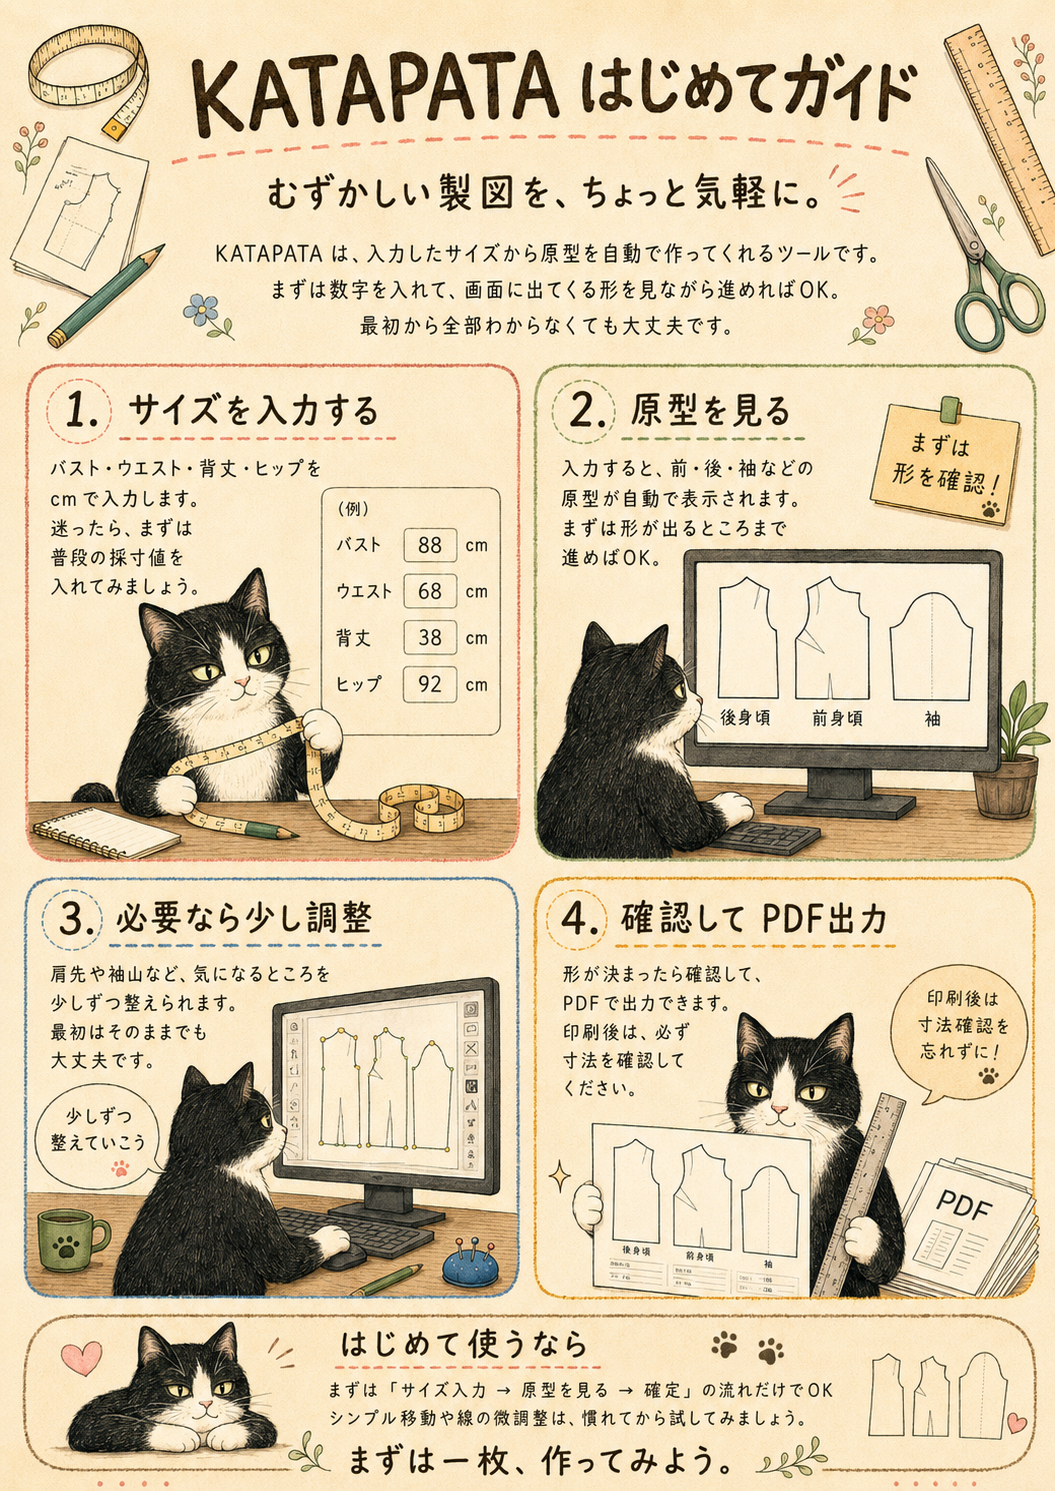
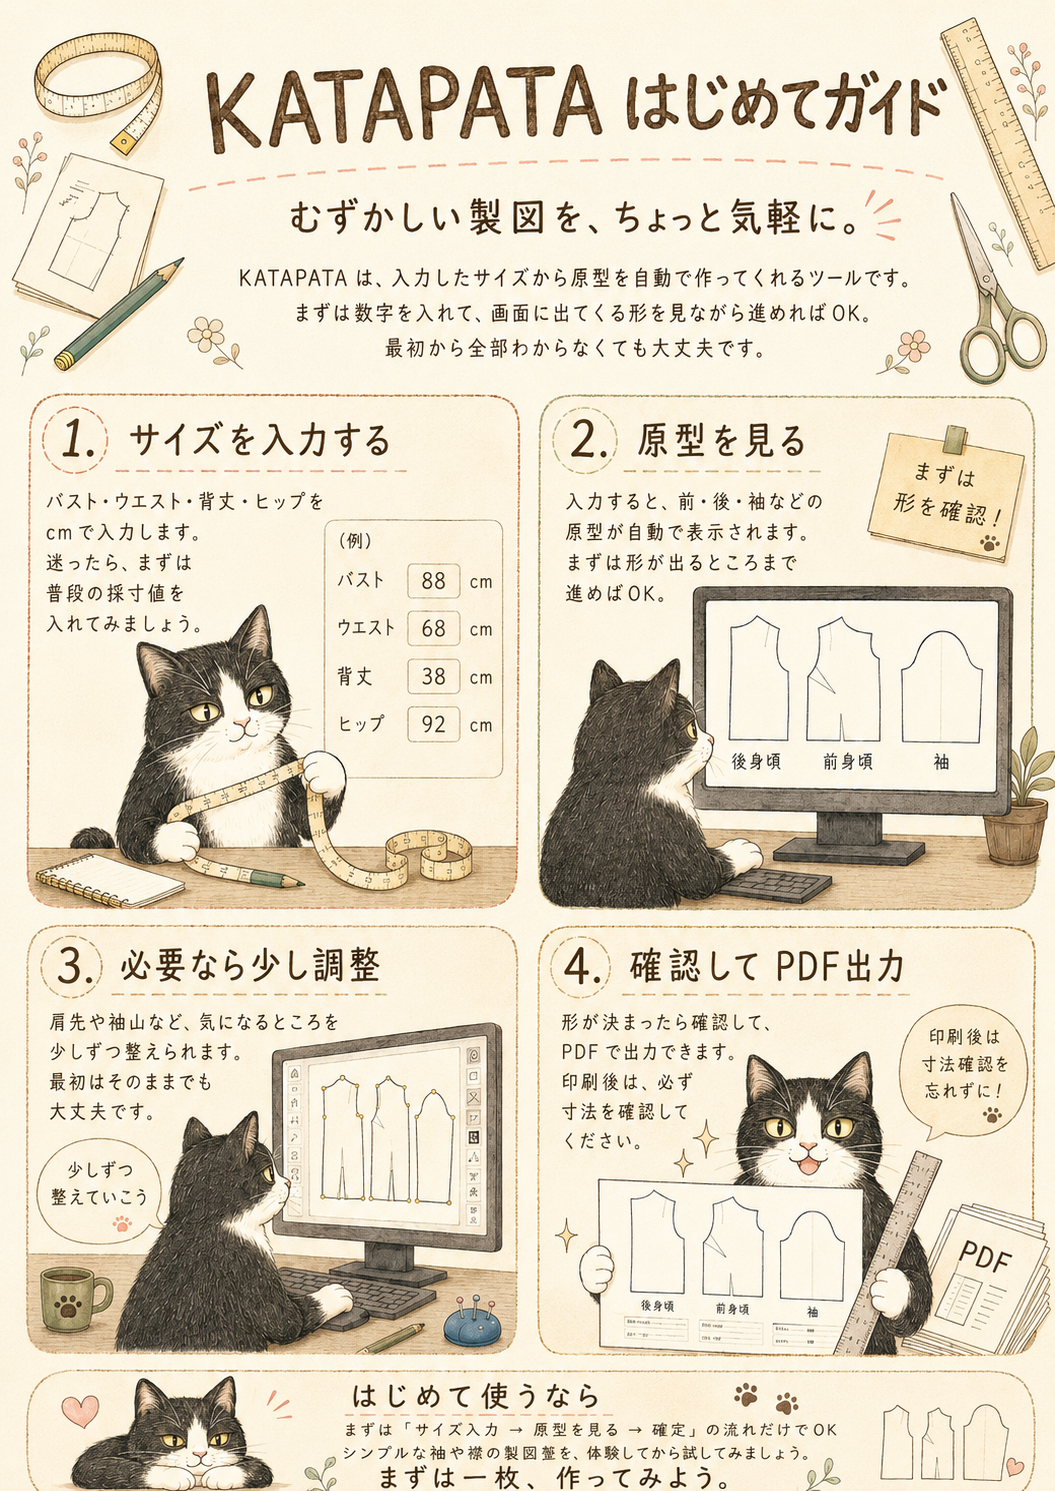
Add files via upload

diff --git a/guide/index.html b/guide/index.html
@@ -7,7 +7,7 @@
   <meta name="description" content="KATAPATAの使い方を、猫のかんたんガイドと手順で紹介します。">
   <link rel="stylesheet" href="../assets/css/site.css">
 </head>
-<body>
+<body class="guide-body">
 <header class="site-header">
   <div class="nav-wrap">
     <a class="brand" href="../index.html" aria-label="KATAPATA home">
@@ -17,51 +17,48 @@
     <button class="nav-toggle" type="button" data-nav-toggle aria-expanded="false">MENU</button>
     <nav class="site-nav" data-site-nav>
       <a href="../about.html">はじめに</a>
-      <a href="../tools/index.html">ツール</a>
-      <a href="../guide/index.html">使い方</a>
-      <a href="../examples/index.html">使用例</a>
-      <a href="../blog/index.html">ブログ</a>
-      <a href="../pricing/index.html">料金</a>
-      <a href="../help/index.html">FAQ</a>
+      <a href="../guide/index.html" class="is-active">使い方</a>
+      <a href="../tools/sloper/index.html">原型作成ツール</a>
+      <a href="../help/index.html">よくある質問</a>
     </nav>
   </div>
 </header>
-<main class="main">
-
-<section class="page-hero container">
-  <p class="eyebrow">First Guide</p>
-  <h1 class="page-title">KATAPATA はじめてガイド</h1>
-  <p class="page-lead">まずは全体の流れをざっくり確認するページです。細かいことは後からで大丈夫。最初は「入力して、見る」だけでもOKです。</p>
-</section>
-
-<section class="section container tight">
-  <figure class="guide-visual-card">
-    <img src="../assets/img/katapata-guide-cat.png" alt="KATAPATAの使い方を説明する猫のかんたんガイド。サイズ入力、原型確認、調整、PDF出力の流れ。">
-    <figcaption>猫のかんたんガイド：KATAPATAの基本の流れ</figcaption>
-  </figure>
-</section>
-
-<section class="section container">
-  <h2 class="section-title">基本の流れ</h2>
-  <div class="steps">
-    <div class="step"><h3>サイズを入力する</h3><p>バスト、ウエスト、背丈など、必要な寸法をcm単位で入力します。</p></div>
-    <div class="step"><h3>原型を見る</h3><p>画面に表示された原型を確認します。前・後ろ・袖などを切り替えて見られます。</p></div>
-    <div class="step"><h3>必要なら調整する</h3><p>肩、BP、袖山など、必要な箇所を調整しながら確認します。</p></div>
-    <div class="step"><h3>PDFで出力する</h3><p>無料では縮小サンプルPDFを確認できます。有料出力では、通常サイズPDFとA4分割PDFをセットで使えます。</p></div>
-  </div>
-</section>
-
-<section class="section container">
-  <div class="guide-callout">
-    <div>
-      <p class="eyebrow">Open Tool</p>
-      <h2>準備ができたら、原型作成ツールへ</h2>
-      <p>作業中にこのガイドを見返したい場合は、別タブで開いておくと安心です。</p>
+<main class="guide-page">
+  <section class="guide-hero-modern guide-container" aria-labelledby="guide-title">
+    <div class="guide-hero-copy">
+      <h1 id="guide-title">はじめての方へ<span class="guide-hero-flower" aria-hidden="true">🌼</span></h1>
+      <p>KATAPATAは、むずかしい製図を、ちょっと気軽に。<br>入力したサイズから、あなたの原型を自動で作ってくれるツールです。<br>まずはガイドを読んで、気軽に始めてみましょう。</p>
     </div>
-    <a class="btn primary" href="../tools/sloper/index.html">原型作成ツールへ</a>
-  </div>
-</section>
+    <div class="guide-hero-art" aria-hidden="true">
+      <span class="flower-a">✿</span>
+      <span class="flower-b">❀</span>
+      <span class="flower-c">✽</span>
+    </div>
+  </section>
 
+  <section class="guide-visual-section" aria-label="KATAPATA はじめてガイド">
+    <figure class="guide-visual-shell">
+      <picture class="guide-picture">
+        <source media="(min-width: 861px)" srcset="../assets/img/katapata-guide-cat-wide.png">
+        <img src="../assets/img/katapata-guide-cat.png" alt="KATAPATA はじめてガイド。サイズ入力、原型確認、調整、PDF出力の流れを猫のイラストで説明しています。">
+      </picture>
+      <figcaption class="sr-only">猫のかんたんガイド：KATAPATAの基本の流れ</figcaption>
+    </figure>
+    <div class="guide-actions guide-container">
+      <a class="btn guide-primary" href="../tools/sloper/index.html">さっそく原型を作ってみる　›</a>
+      <a class="btn guide-secondary" href="#guide-steps">詳しい使い方を見る　›</a>
+    </div>
+  </section>
+
+  <section id="guide-steps" class="section guide-detail-section guide-container">
+    <h2 class="section-title">基本の流れ</h2>
+    <div class="steps">
+      <div class="step"><h3>サイズを入力する</h3><p>バスト、ウエスト、背丈など、必要な寸法をcm単位で入力します。迷ったら、まずは普段の採寸値で大丈夫です。</p></div>
+      <div class="step"><h3>原型を見る</h3><p>画面に表示された原型を確認します。前身頃、後身頃、袖などを切り替えながら確認できます。</p></div>
+      <div class="step"><h3>必要なら少し調整する</h3><p>肩先や袖山など、気になるところを少しずつ調整できます。最初はそのまま進めてもOKです。</p></div>
+      <div class="step"><h3>確認してPDF出力</h3><p>形が決まったら、印刷前に必ず寸法を確認してからPDF出力へ進みます。</p></div>
+    </div>
+  </section>
 </main>
 <footer class="footer">
   <div class="footer-inner">

diff --git a/assets/css/site.css b/assets/css/site.css
@@ -691,3 +691,218 @@ body {
     white-space: normal;
   }
 }
+
+/* Guide page responsive layout update */
+body.guide-body {
+  background:
+    radial-gradient(circle at 70% 8%, rgba(255, 255, 255, .72), transparent 28%),
+    linear-gradient(180deg, #f8f5ef 0%, #fffdf8 42%, #f8f5ef 100%);
+}
+.guide-body .site-header {
+  background: rgba(255, 253, 248, .88);
+}
+.guide-page {
+  overflow: hidden;
+}
+.guide-page .guide-container {
+  width: min(1280px, calc(100% - 56px));
+  margin: 0 auto;
+}
+.guide-hero-modern {
+  position: relative;
+  display: grid;
+  grid-template-columns: minmax(0, 1fr) minmax(260px, 380px);
+  gap: clamp(22px, 5vw, 64px);
+  align-items: center;
+  min-height: 260px;
+  padding: clamp(38px, 7vw, 72px) 0 clamp(24px, 4vw, 36px);
+}
+.guide-hero-copy {
+  position: relative;
+  z-index: 1;
+  max-width: 650px;
+}
+.guide-hero-copy h1 {
+  margin: 0 0 14px;
+  font-size: clamp(2rem, 5vw, 3.4rem);
+  line-height: 1.16;
+  letter-spacing: .04em;
+  color: #3d3026;
+  font-weight: 850;
+}
+.guide-hero-copy p {
+  margin: 0;
+  color: #4d453d;
+  font-size: clamp(1rem, 1.7vw, 1.18rem);
+  line-height: 2.0;
+  letter-spacing: .03em;
+  word-break: keep-all;
+}
+.guide-hero-flower {
+  display: inline-block;
+  margin-left: .25em;
+  font-size: .72em;
+  transform: translateY(-.08em);
+}
+.guide-hero-art {
+  position: relative;
+  min-height: 190px;
+  border-radius: 34px;
+  background:
+    radial-gradient(circle at 52% 42%, rgba(255,253,248,.95) 0 28%, transparent 29%),
+    radial-gradient(circle at 22% 32%, rgba(227, 146, 114, .16), transparent 28%),
+    radial-gradient(circle at 72% 70%, rgba(184, 151, 100, .15), transparent 30%);
+  opacity: .9;
+}
+.guide-hero-art::before,
+.guide-hero-art::after {
+  content: "";
+  position: absolute;
+  border-radius: 999px;
+  border: 1px solid rgba(61, 48, 38, .15);
+}
+.guide-hero-art::before {
+  width: 170px;
+  height: 170px;
+  left: 28px;
+  top: 10px;
+  background: rgba(255,253,248,.40);
+}
+.guide-hero-art::after {
+  width: 94px;
+  height: 94px;
+  right: 40px;
+  bottom: 18px;
+  background: rgba(255,253,248,.36);
+}
+.guide-hero-art span {
+  position: absolute;
+  font-size: clamp(1.4rem, 3vw, 2.1rem);
+  opacity: .72;
+}
+.guide-hero-art .flower-a { left: 12%; top: 24%; }
+.guide-hero-art .flower-b { right: 14%; top: 16%; }
+.guide-hero-art .flower-c { right: 28%; bottom: 20%; }
+.guide-visual-section {
+  padding: 0 0 clamp(20px, 4vw, 34px);
+}
+.guide-visual-shell {
+  width: min(1280px, calc(100% - 56px));
+  margin: 0 auto;
+  border: 1px solid rgba(0, 0, 0, .075);
+  border-radius: clamp(22px, 3vw, 32px);
+  padding: clamp(10px, 1.6vw, 18px);
+  background: rgba(255, 253, 248, .78);
+  box-shadow: 0 16px 44px rgba(0,0,0,.075);
+}
+.guide-picture img {
+  width: 100%;
+  height: auto;
+  border-radius: clamp(16px, 2.4vw, 24px);
+  display: block;
+}
+.guide-actions {
+  display: flex;
+  justify-content: center;
+  flex-wrap: wrap;
+  gap: 14px;
+  padding: 20px 0 0;
+}
+.guide-actions .btn {
+  min-width: min(100%, 330px);
+  min-height: 54px;
+  font-size: 1.05rem;
+  letter-spacing: .08em;
+  border-radius: 999px;
+}
+.guide-actions .guide-primary {
+  background: linear-gradient(180deg, #e8755d 0%, #cf5946 100%);
+  color: #fffdf8;
+  border-color: rgba(207, 89, 70, .62);
+  box-shadow: 0 12px 24px rgba(207, 89, 70, .20);
+}
+.guide-actions .guide-secondary {
+  background: rgba(255,253,248,.72);
+  color: #8a4c3e;
+  border-color: rgba(207, 89, 70, .34);
+}
+.guide-detail-section {
+  padding-top: 28px;
+}
+.guide-detail-section .section-title,
+.guide-detail-section .steps {
+  max-width: 980px;
+  margin-left: auto;
+  margin-right: auto;
+}
+@media (max-width: 860px) {
+  .guide-page .guide-container,
+  .guide-visual-shell {
+    width: min(100% - 24px, 760px);
+  }
+  .guide-hero-modern {
+    grid-template-columns: 1fr;
+    min-height: auto;
+    padding: 34px 0 22px;
+  }
+  .guide-hero-art {
+    display: none;
+  }
+  .guide-hero-copy h1 {
+    font-size: clamp(2rem, 11vw, 3rem);
+    margin-bottom: 12px;
+  }
+  .guide-hero-copy p {
+    max-width: 24em;
+    line-height: 1.9;
+    font-size: 1rem;
+  }
+  .guide-visual-shell {
+    padding: 8px;
+    border-radius: 24px;
+    box-shadow: 0 12px 30px rgba(0,0,0,.07);
+  }
+  .guide-picture img {
+    border-radius: 18px;
+  }
+  .guide-actions {
+    display: grid;
+    grid-template-columns: 1fr;
+    gap: 10px;
+    padding-top: 18px;
+  }
+  .guide-actions .btn {
+    width: 100%;
+    min-width: 0;
+    min-height: 56px;
+    font-size: 1rem;
+  }
+}
+@media (max-width: 520px) {
+  .guide-body .nav-wrap {
+    width: min(100% - 24px, var(--max));
+  }
+  .guide-hero-modern {
+    padding-top: 28px;
+  }
+  .guide-hero-copy p {
+    word-break: keep-all;
+    overflow-wrap: anywhere;
+  }
+  .guide-visual-shell {
+    width: calc(100% - 18px);
+    padding: 6px;
+    border-radius: 22px;
+  }
+}
+.sr-only {
+  position: absolute !important;
+  width: 1px !important;
+  height: 1px !important;
+  padding: 0 !important;
+  margin: -1px !important;
+  overflow: hidden !important;
+  clip: rect(0, 0, 0, 0) !important;
+  white-space: nowrap !important;
+  border: 0 !important;
+}
